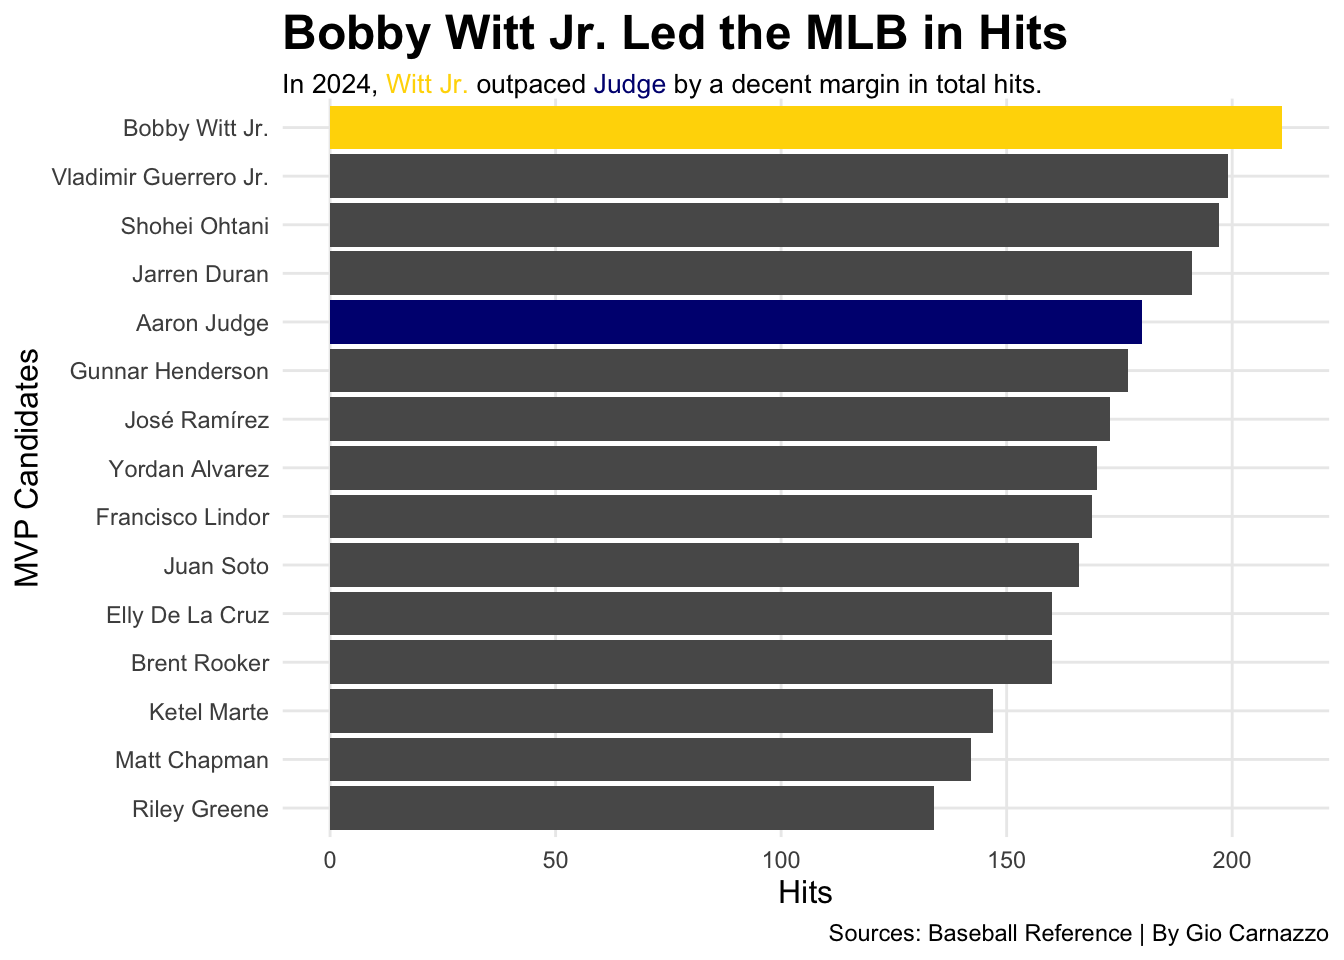
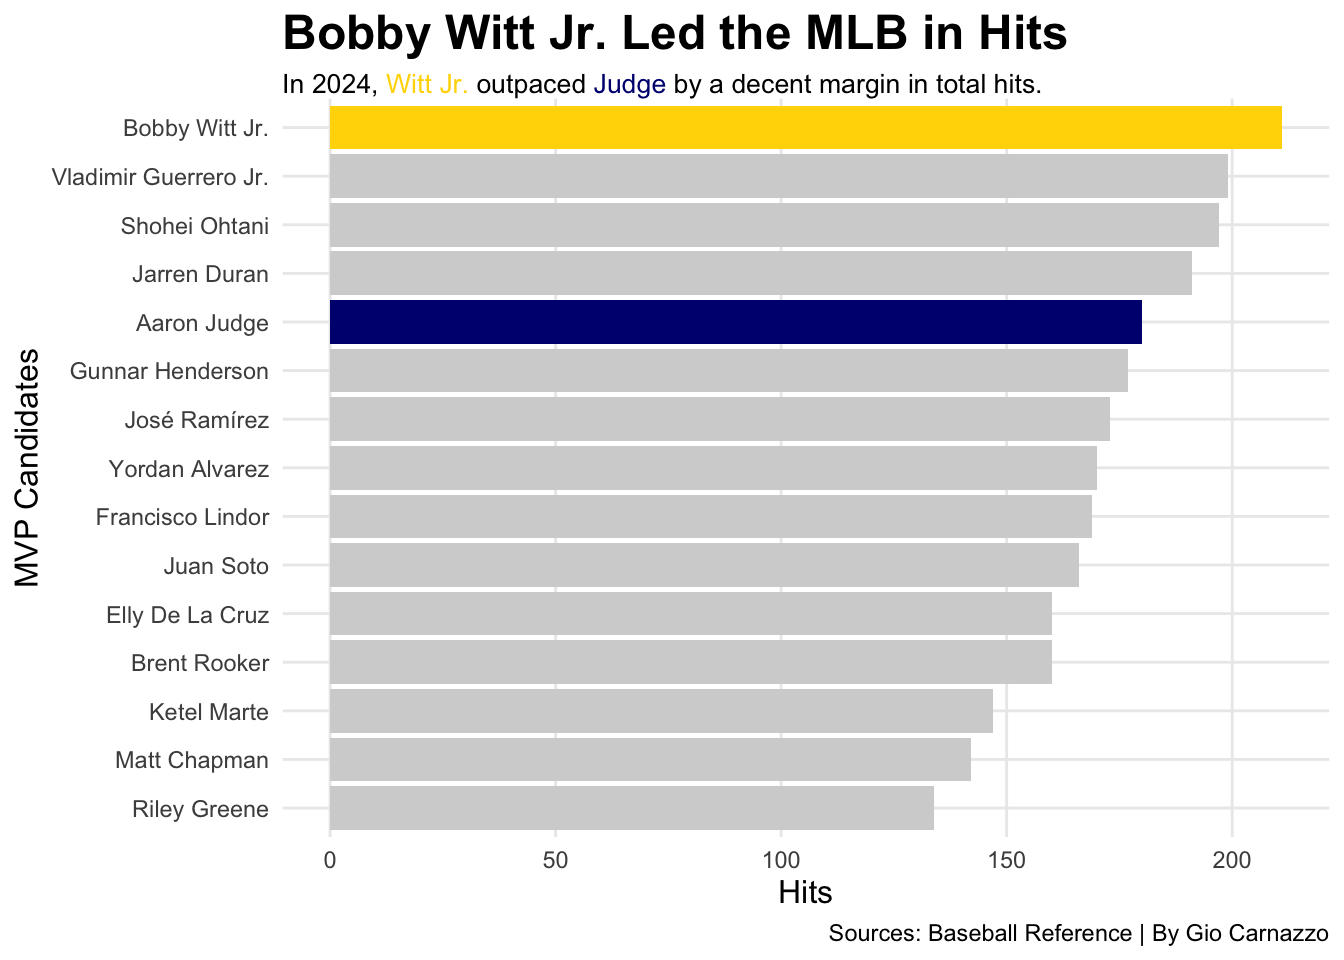
UPGRADE COLOR BARS

diff --git a/posts/bobby-witt-jr-baseball-mlb-mvp-race/index.html b/posts/bobby-witt-jr-baseball-mlb-mvp-race/index.html
@@ -213,7 +213,7 @@ pre > code.sourceCode > span > a:first-child::before { text-decoration: underlin
 <span id="cb1-22"><a href="#cb1-22" aria-hidden="true" tabindex="-1"></a>  )</span>
 <span id="cb1-23"><a href="#cb1-23" aria-hidden="true" tabindex="-1"></a></span>
 <span id="cb1-24"><a href="#cb1-24" aria-hidden="true" tabindex="-1"></a><span class="fu">ggplot</span>() <span class="sc">+</span> </span>
-<span id="cb1-25"><a href="#cb1-25" aria-hidden="true" tabindex="-1"></a>  <span class="fu">geom_bar</span>(<span class="at">data=</span>top_war, <span class="fu">aes</span>(<span class="at">x=</span><span class="fu">reorder</span>(Player, H), <span class="at">weight=</span>H)) <span class="sc">+</span> </span>
+<span id="cb1-25"><a href="#cb1-25" aria-hidden="true" tabindex="-1"></a>  <span class="fu">geom_bar</span>(<span class="at">data=</span>top_war, <span class="fu">aes</span>(<span class="at">x=</span><span class="fu">reorder</span>(Player, H), <span class="at">weight=</span>H), <span class="at">fill=</span><span class="st">"lightgrey"</span>) <span class="sc">+</span> </span>
 <span id="cb1-26"><a href="#cb1-26" aria-hidden="true" tabindex="-1"></a>  <span class="fu">geom_bar</span>(<span class="at">data=</span>bobby, <span class="fu">aes</span>(<span class="at">x=</span><span class="fu">reorder</span>(Player, H), <span class="at">weight=</span>H), <span class="at">fill=</span><span class="st">"gold"</span>) <span class="sc">+</span></span>
 <span id="cb1-27"><a href="#cb1-27" aria-hidden="true" tabindex="-1"></a>  <span class="fu">geom_bar</span>(<span class="at">data=</span>judge, <span class="fu">aes</span>(<span class="at">x=</span><span class="fu">reorder</span>(Player, H), <span class="at">weight=</span>H), <span class="at">fill=</span><span class="st">"navyblue"</span>) <span class="sc">+</span></span>
 <span id="cb1-28"><a href="#cb1-28" aria-hidden="true" tabindex="-1"></a>  <span class="fu">coord_flip</span>() <span class="sc">+</span></span>

diff --git a/index.html b/index.html
@@ -200,7 +200,7 @@ window.Quarto = {
 
 <div class="quarto-listing quarto-listing-container-default" id="listing-listing">
 <div class="list quarto-listing-default">
-<div class="quarto-post image-right" data-index="0" data-categories="bWxiLGJhc2ViYWxsLGthbnNhcyBjaXR5IHJveWFscw==" data-listing-date-sort="1730790000000" data-listing-file-modified-sort="1731786689267" data-listing-date-modified-sort="NaN" data-listing-reading-time-sort="3" data-listing-word-count-sort="438">
+<div class="quarto-post image-right" data-index="0" data-categories="bWxiLGJhc2ViYWxsLGthbnNhcyBjaXR5IHJveWFscw==" data-listing-date-sort="1730790000000" data-listing-file-modified-sort="1731786819448" data-listing-date-modified-sort="NaN" data-listing-reading-time-sort="3" data-listing-word-count-sort="439">
 <div class="thumbnail">
 <p><a href="./posts/bobby-witt-jr-baseball-mlb-mvp-race/index.html" class="no-external"></a></p><a href="./posts/bobby-witt-jr-baseball-mlb-mvp-race/index.html" class="no-external">
 <p><img loading="lazy" src="./posts/bobby-witt-jr-baseball-mlb-mvp-race/image.png" class="thumbnail-image"></p>
